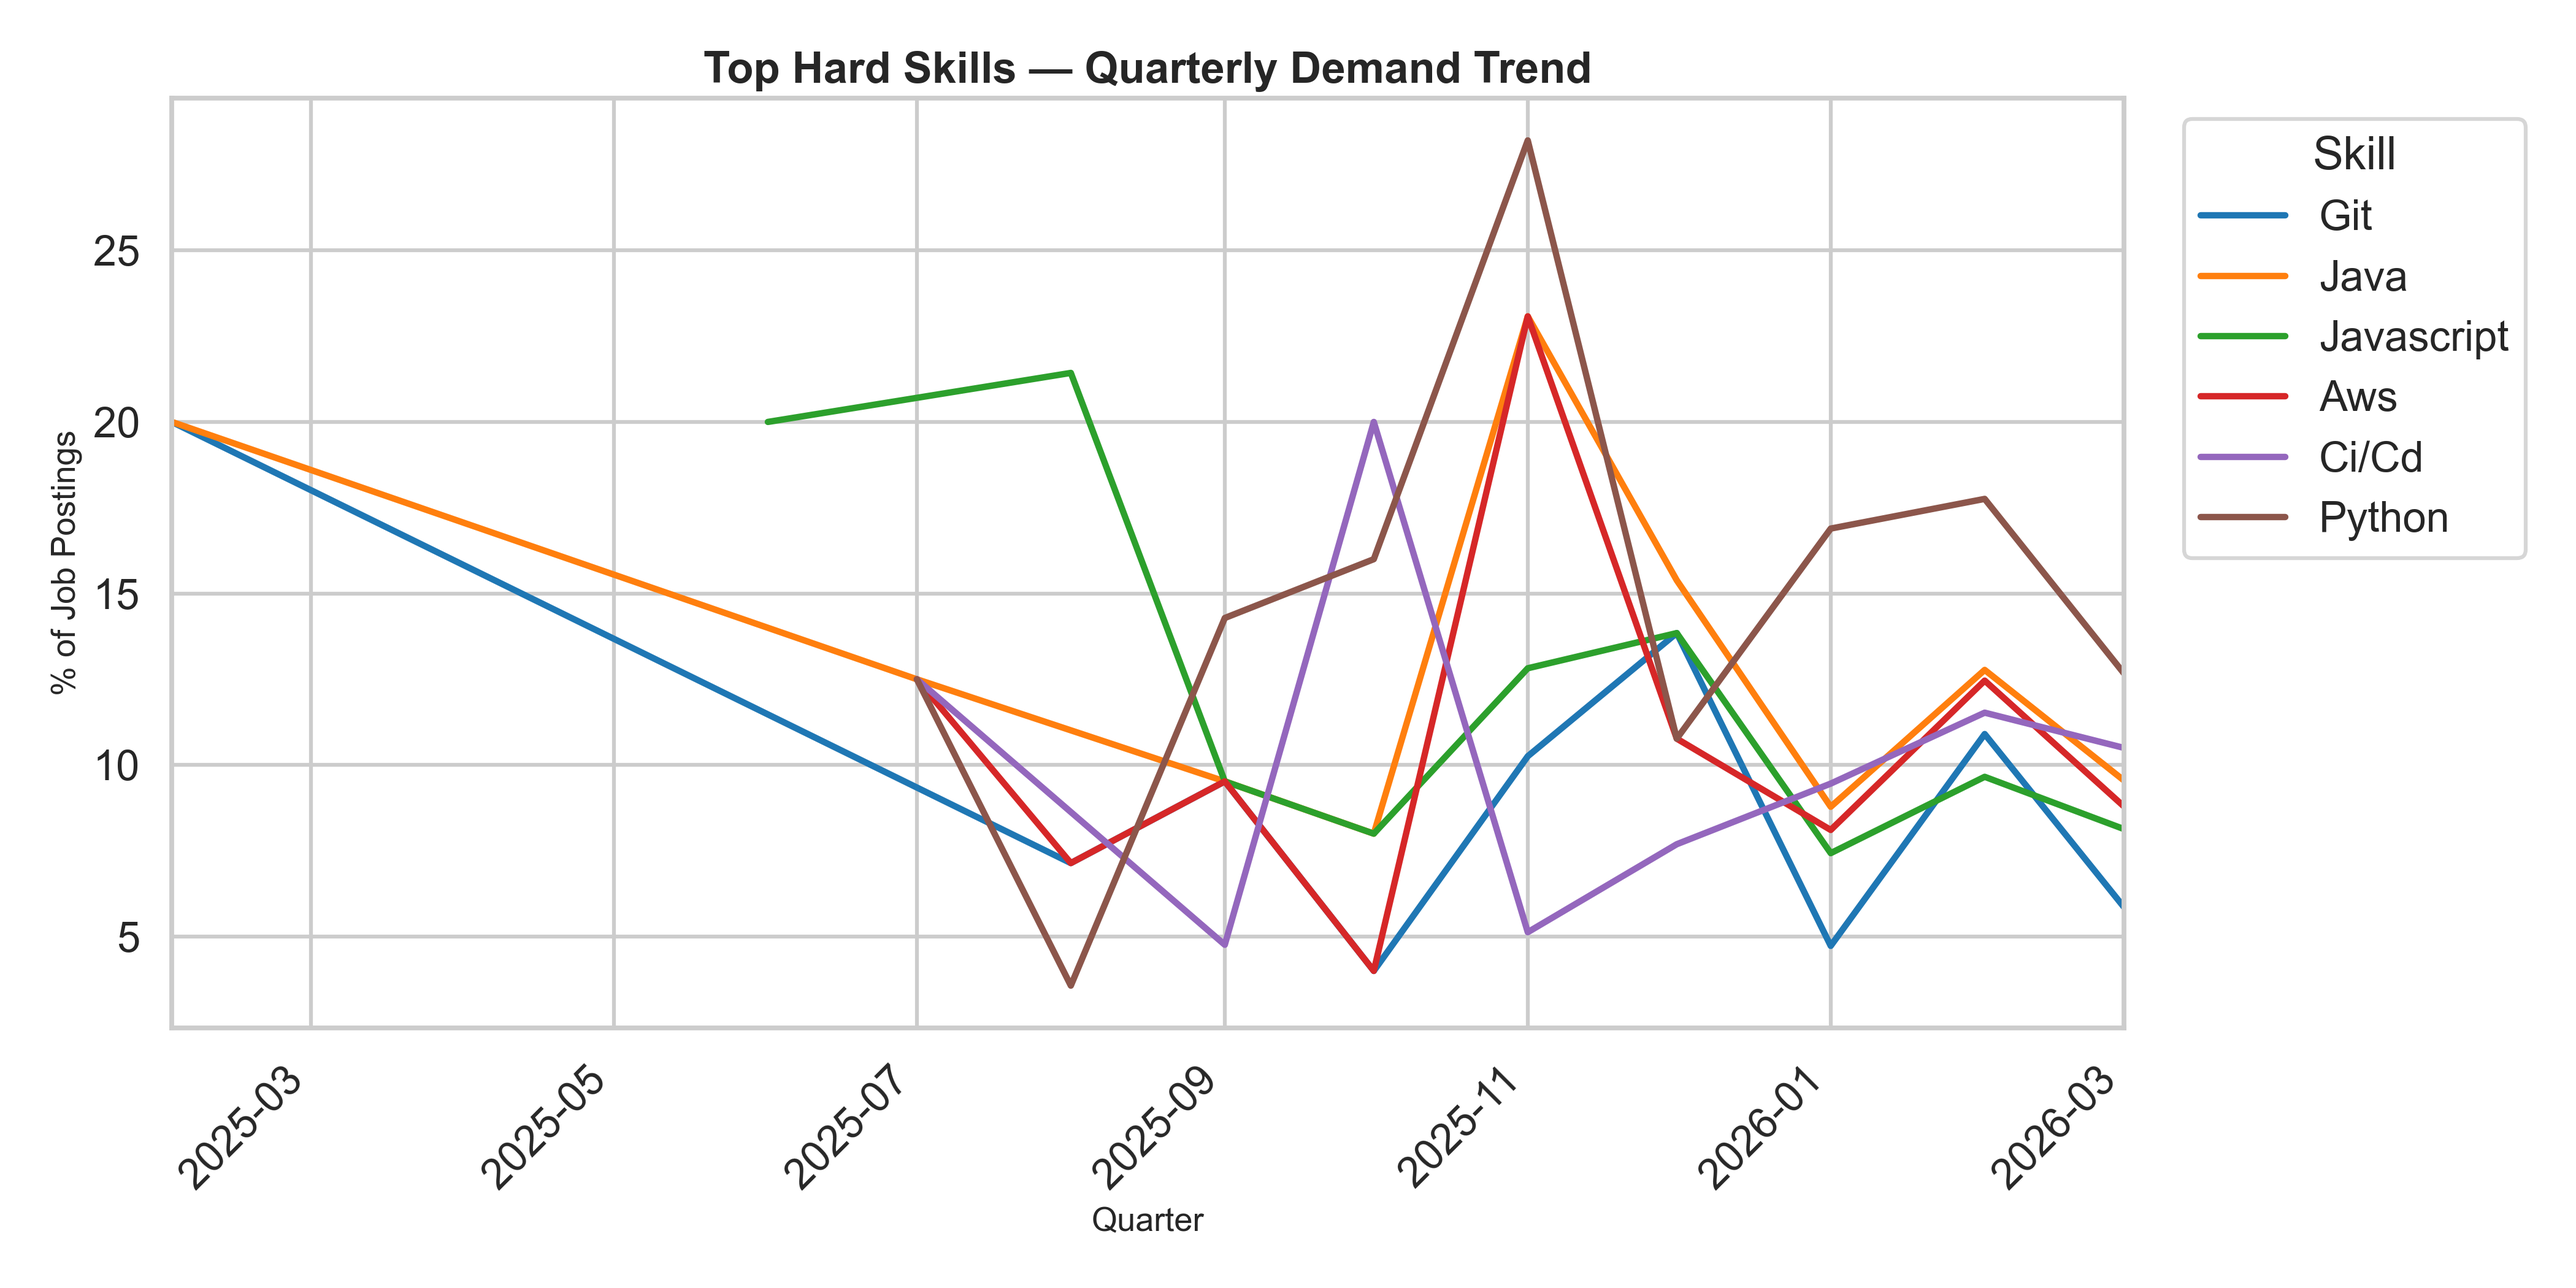
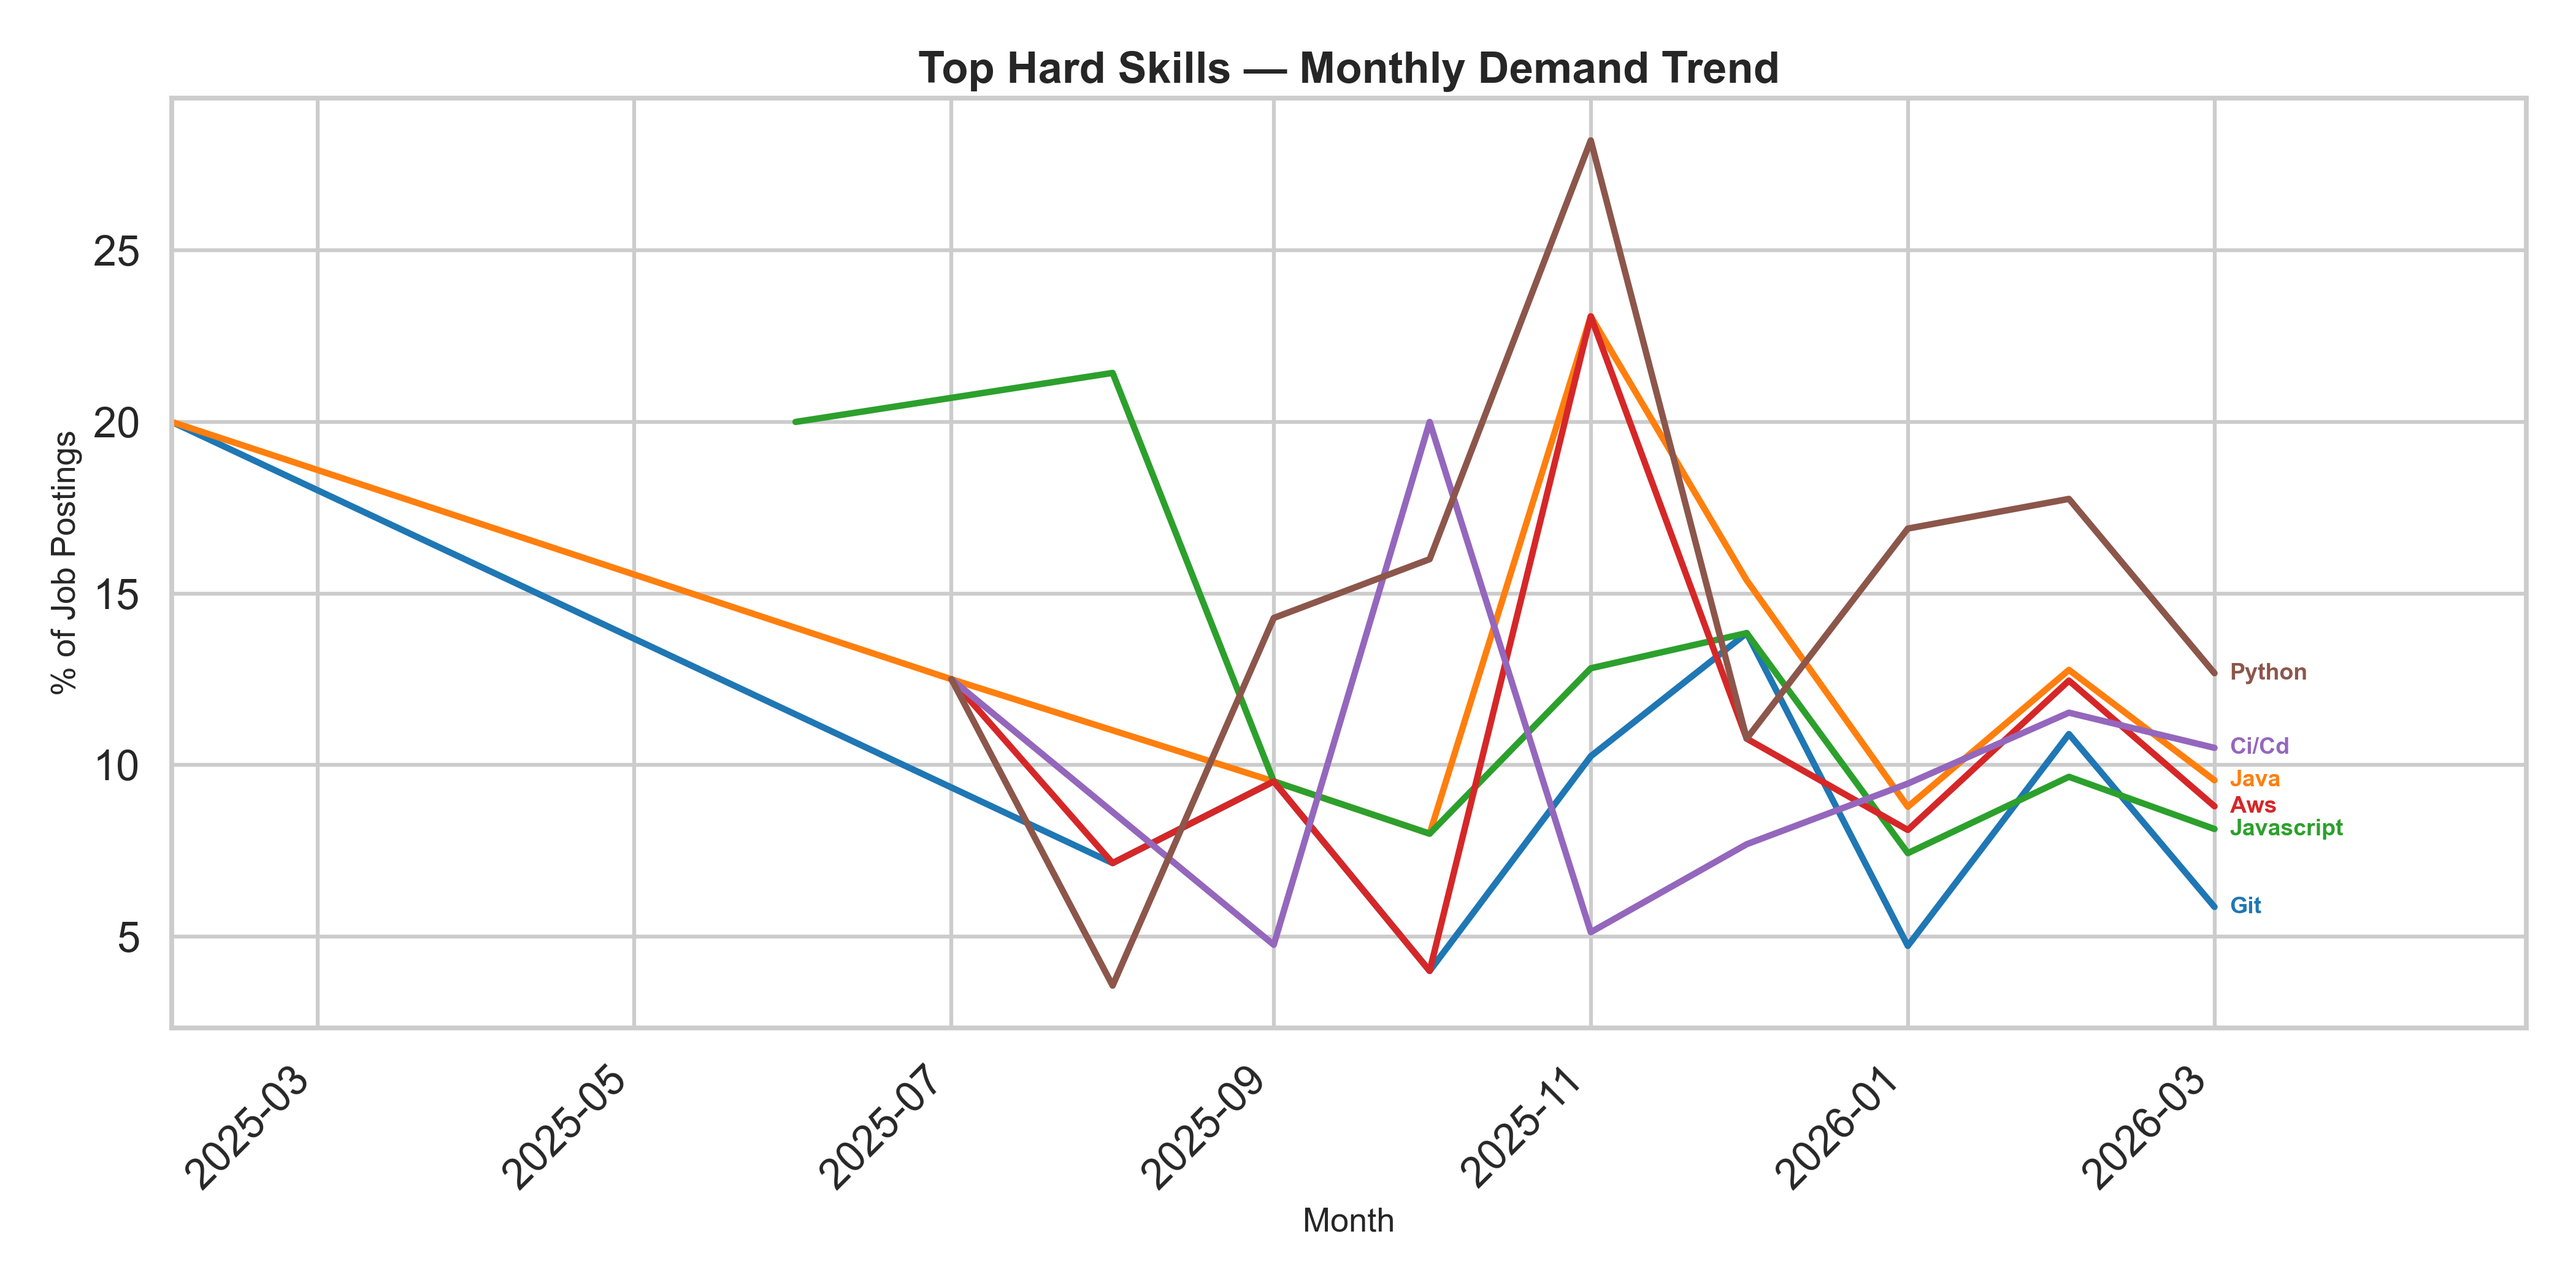
feat: add end-of-line skill name annotations on all time-series charts

diff --git a/scrapers/07_visualizations.py b/scrapers/07_visualizations.py
@@ -86,8 +86,31 @@ def main():
         )
         return counts.rename(columns={skill_col: "skill"})
 
+    # ────────────────────────────────────────────────────────────────────────
+    # Helper: annotate the last point of each line with the skill name
+    # ────────────────────────────────────────────────────────────────────────
+    def annotate_lines(ax, data, x_col, y_col, label_col, pad_days=10):
+        """Write each skill name at the rightmost data point of its line."""
+        # Extend the x-axis to make room for labels
+        x_max = data[x_col].max()
+        ax.set_xlim(data[x_col].min(), x_max + pd.Timedelta(days=pad_days * len(data[label_col].unique())))
+        palette = dict(zip(
+            ax.get_legend_handles_labels()[1],
+            [h.get_color() for h in ax.get_legend_handles_labels()[0]]
+        ))
+        for skill, grp in data.groupby(label_col):
+            last = grp.sort_values(x_col).iloc[-1]
+            color = palette.get(str(skill), "black")
+            ax.annotate(
+                str(skill),
+                xy=(last[x_col], last[y_col]),
+                xytext=(6, 0), textcoords="offset points",
+                fontsize=9, color=color, fontweight="bold",
+                va="center"
+            )
+
     # ═══════════════════════════════════════════════════════════════════════
-    # Chart 1 – Combined Hard & Soft Skills Over Time (quarterly)
+    # Chart 1 – Combined Hard & Soft Skills Over Time (monthly)
     # ═══════════════════════════════════════════════════════════════════════
     print("Generating Chart 1: Combined skills over time (quarterly)...")
     hard_t = monthly_trend(df_m, "hard_skills", 4)
@@ -103,19 +126,18 @@ def main():
         markers=True, dashes={"Hard": (1,0), "Soft": (3,2)},
         linewidth=2.5, palette="tab10", markersize=9, ax=ax
     )
-    ax.set_title("Quarterly Skill Demand Trends: Hard vs. Soft Skills", fontsize=17, fontweight="bold")
-    ax.set_xlabel("Quarter", fontsize=13)
+    ax.set_title("Monthly Skill Demand Trends: Hard vs. Soft Skills", fontsize=17, fontweight="bold")
+    ax.set_xlabel("Month", fontsize=13)
     ax.set_ylabel("% of Job Postings", fontsize=13)
-    if not combined_t.empty:
-        ax.set_xlim(combined_t["date_plot"].min(), combined_t["date_plot"].max())
     plt.xticks(rotation=45, ha="right")
     ax.annotate(
-        f"Quarters with N ≥ {MIN_N} jobs shown",
+        f"Months from Jan 2025 onwards",
         xy=(0.02, 0.97), xycoords="axes fraction",
         fontsize=10, verticalalignment="top",
         bbox=dict(boxstyle="round,pad=0.3", fc="#f0f0f0", ec="gray")
     )
-    plt.legend(title="Skill  (-- Hard  .. Soft)", bbox_to_anchor=(1.02, 1), loc="upper left", fontsize=11)
+    annotate_lines(ax, combined_t, "date_plot", "demand_pct", "skill")
+    ax.get_legend().remove()
     plt.tight_layout()
     plt.savefig(f"{OUT_DIR}/combined_skills_over_time.png", dpi=300)
     plt.close()
@@ -195,13 +217,12 @@ def main():
     fig, ax = plt.subplots(figsize=(14, 7))
     sns.lineplot(data=hard_t5, x="date_plot", y="demand_pct", hue="skill",
                  markers=True, linewidth=2.5, palette="tab10", markersize=9, ax=ax)
-    ax.set_title("Top Hard Skills — Quarterly Demand Trend", fontsize=17, fontweight="bold")
-    ax.set_xlabel("Quarter", fontsize=13)
+    ax.set_title("Top Hard Skills — Monthly Demand Trend", fontsize=17, fontweight="bold")
+    ax.set_xlabel("Month", fontsize=13)
     ax.set_ylabel("% of Job Postings", fontsize=13)
-    if not hard_t5.empty:
-        ax.set_xlim(hard_t5["date_plot"].min(), hard_t5["date_plot"].max())
     plt.xticks(rotation=45, ha="right")
-    plt.legend(title="Skill", bbox_to_anchor=(1.02, 1), loc="upper left")
+    annotate_lines(ax, hard_t5, "date_plot", "demand_pct", "skill")
+    ax.get_legend().remove()
     plt.tight_layout()
     plt.savefig(f"{OUT_DIR}/hard_skills_over_time.png", dpi=300)
     plt.close()
@@ -214,13 +235,12 @@ def main():
     fig, ax = plt.subplots(figsize=(14, 7))
     sns.lineplot(data=soft_t5, x="date_plot", y="demand_pct", hue="skill",
                  markers=True, linewidth=2.5, palette="tab10", markersize=9, ax=ax)
-    ax.set_title("Top Soft Skills — Quarterly Demand Trend", fontsize=17, fontweight="bold")
-    ax.set_xlabel("Quarter", fontsize=13)
+    ax.set_title("Top Soft Skills — Monthly Demand Trend", fontsize=17, fontweight="bold")
+    ax.set_xlabel("Month", fontsize=13)
     ax.set_ylabel("% of Job Postings", fontsize=13)
-    if not soft_t5.empty:
-        ax.set_xlim(soft_t5["date_plot"].min(), soft_t5["date_plot"].max())
     plt.xticks(rotation=45, ha="right")
-    plt.legend(title="Skill", bbox_to_anchor=(1.02, 1), loc="upper left")
+    annotate_lines(ax, soft_t5, "date_plot", "demand_pct", "skill")
+    ax.get_legend().remove()
     plt.tight_layout()
     plt.savefig(f"{OUT_DIR}/soft_skills_over_time.png", dpi=300)
     plt.close()
